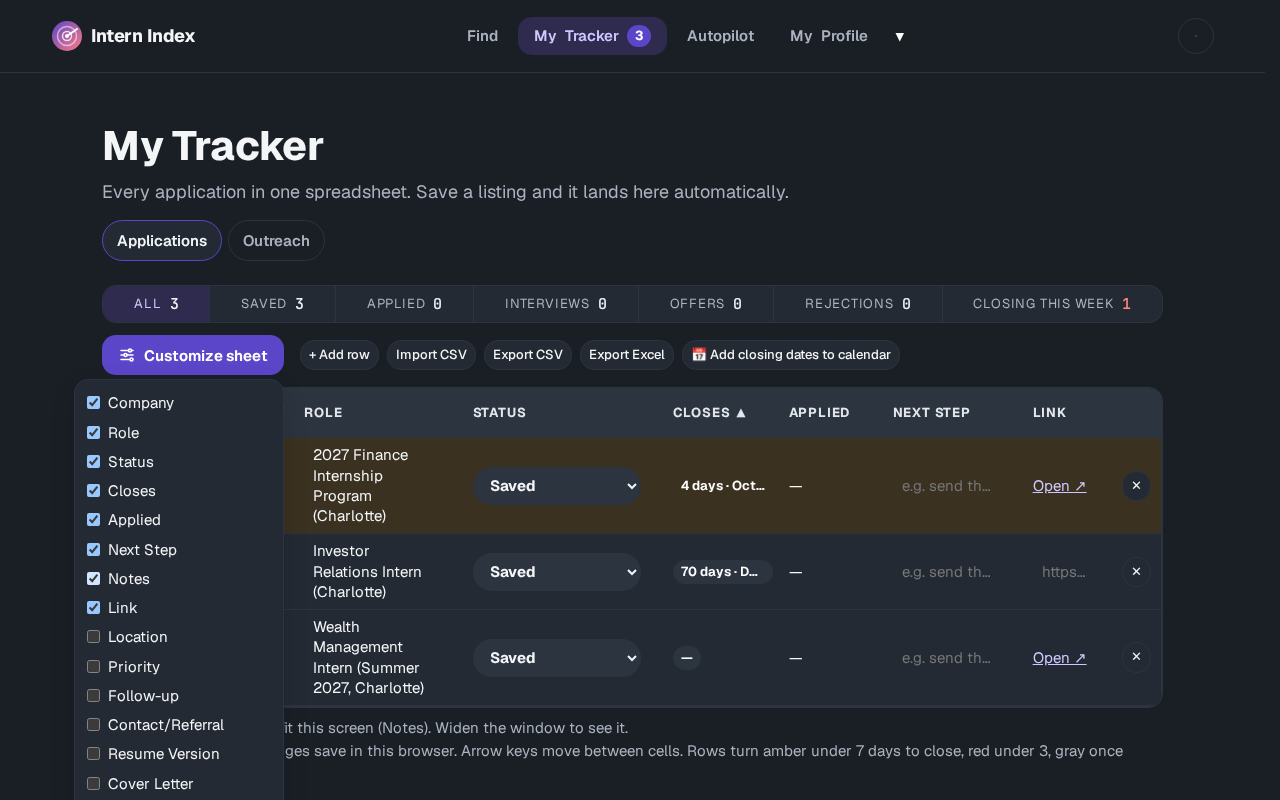
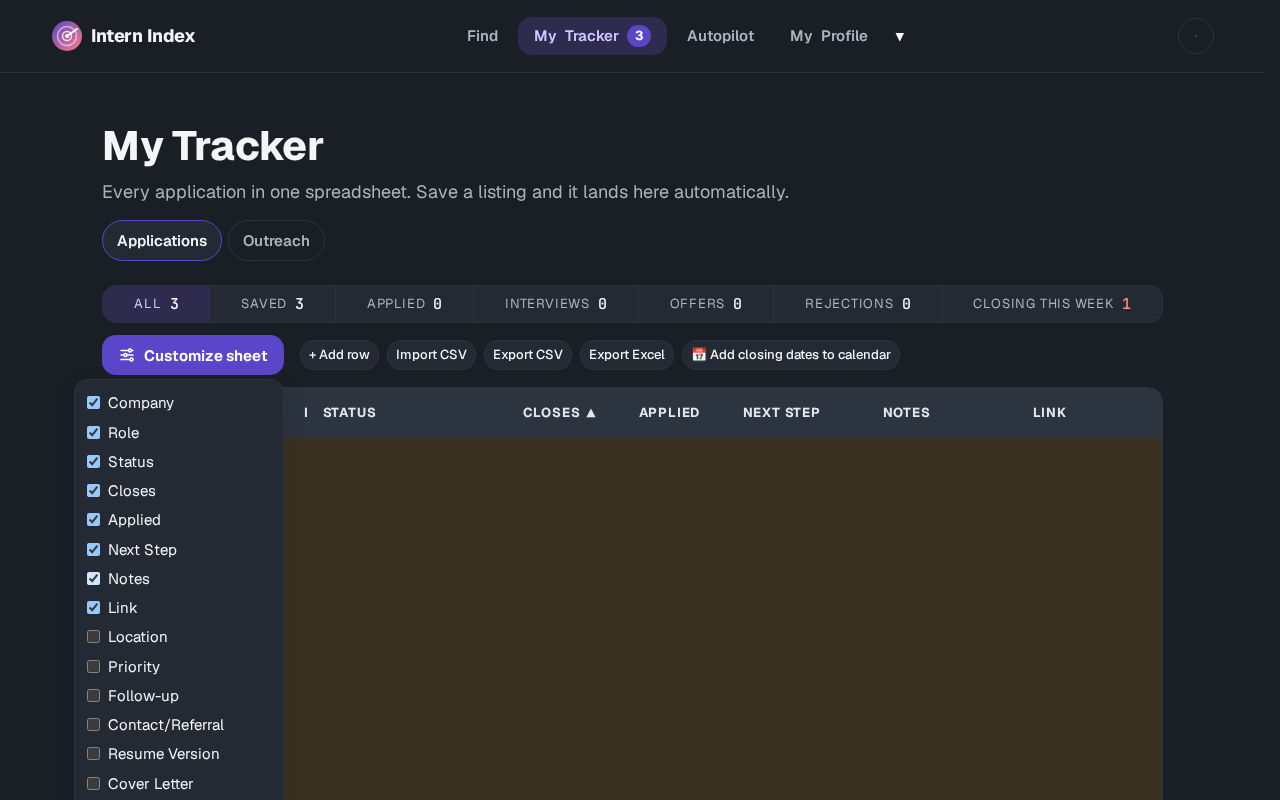
V13.3: Apply button to official application link

diff --git a/specs/V13.3.md b/specs/V13.3.md
@@ -32,6 +32,14 @@ Rules: never invent data, no new paid services, verify every item on the LIVE si
 - In the homepage logo, change the white lines to glowing green (accent green with a soft drop-shadow glow).
 - Add a sweep line that rotates 360° continuously like a radar (about 3–4s per turn), with a fading trail if simple. CSS/SVG only, transform-based, reduced-motion = static.
 
+## 5b. Apply button (straight to the real application)
+- Add a clear "Apply ↗" button to every internship card/row and to the detail panel header (primary style, next to Save).
+- It opens the listing's official application URL (the company ATS apply page, e.g., Greenhouse/Lever/Workday/Ashby apply link) in a new tab (target=_blank, rel=noopener). Prefer the direct apply URL over a general careers page or job-board copy.
+- Store the apply_url per listing from the source data; validate it on each sync (dead or redirected-to-homepage links = flag it and fall back to the posting page with the label "View posting ↗"). Never point to a guessed URL.
+- Closed listings: the button becomes disabled "Closed".
+- On click, offer a small "Mark as applied?" prompt that adds/updates the tracker row (status Applied plus the date). Don't auto-mark.
+- Acceptance: 50 random listings clicked on the live site, 100% land on the correct company's real application/posting page; report any fallbacks.
+
 ## 6. LISTING DATA ACCURACY + FRESHNESS (equally important)
 Every listing must be correct and current. Wrong or dead listings kill trust.
 - Audit: sample 100 random open listings, open each official source, and check company, title, location, season/year, deadline, and that the posting is actually live. Report accuracy % per field; target is 98% or better and 0 dead links shown as open.
